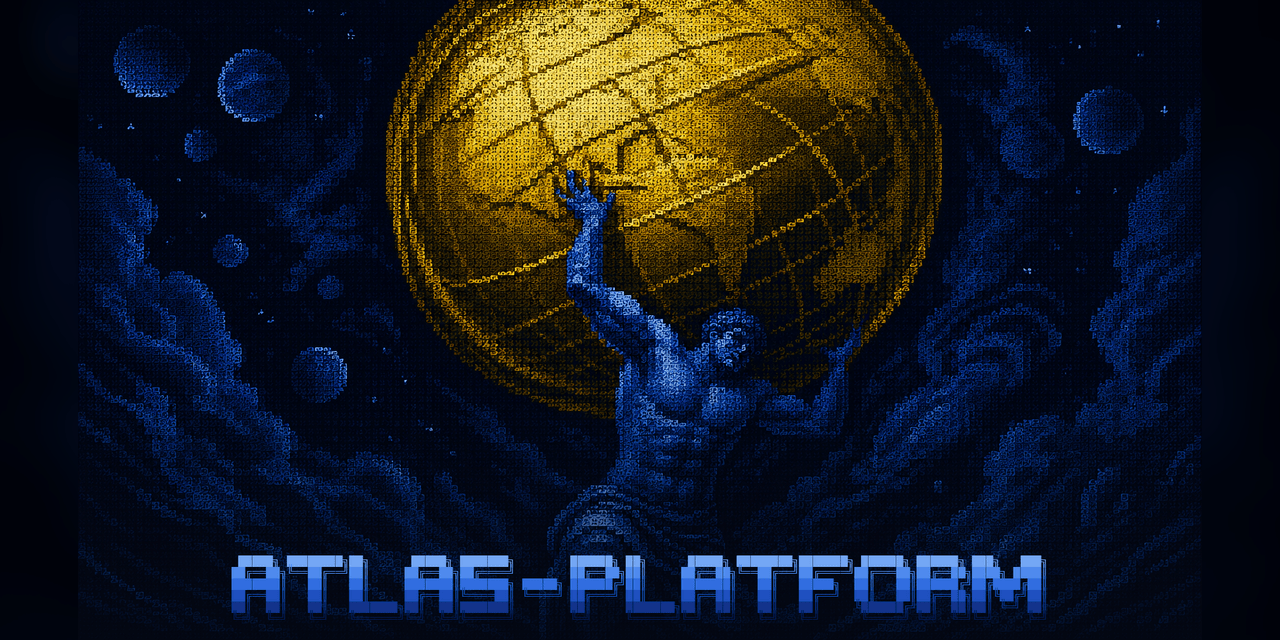
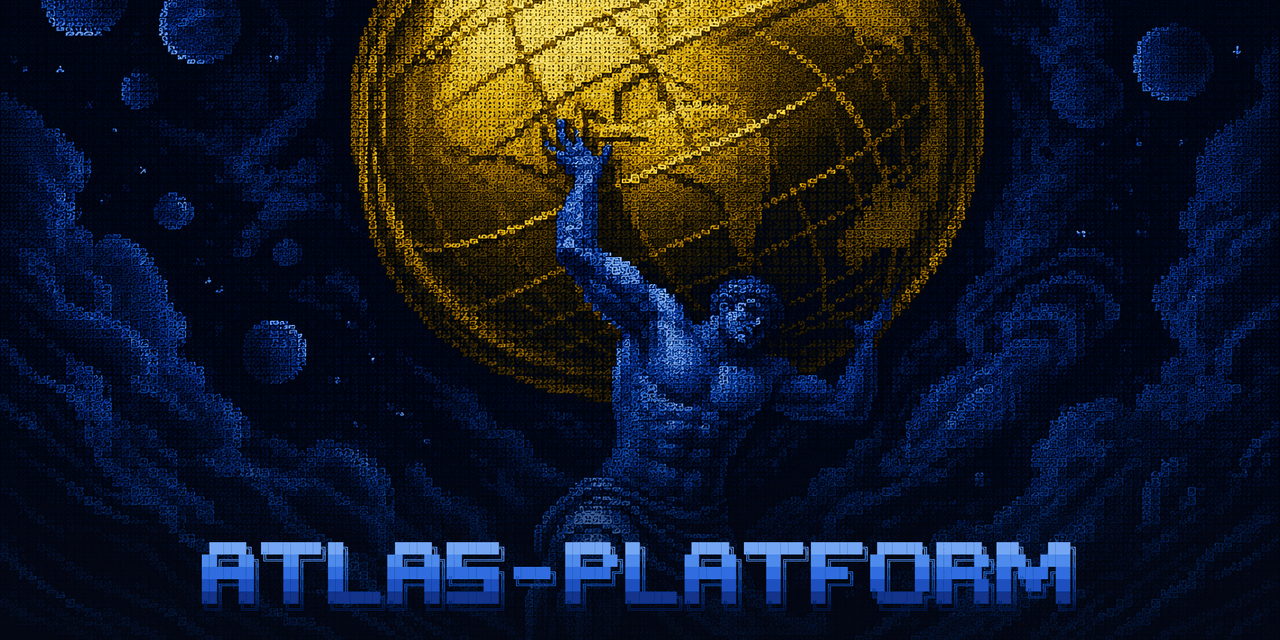
fix(assets): social card is a native 2:1 crop, not letterbox+blur fill
The poster aspect (1.757) is narrower than the 1280x640 (2:1) social card,
so the old _compose_social fit the whole poster and padded the ~78px side
margins with a blurred copy of the art -- the sides read as flat background
rather than real scene. Re-render the card by cropping the source scene to
the card's own 2:1 aspect (trim weighted to the empty top sky so the globe,
figure, and wordmark stay intact), then scrim + place the wordmark fresh.
Full-bleed, no letterbox. Extract the shared scrim+wordmark step as _finish;
drop the now-unused ImageFilter/ImageOps imports.

diff --git a/bootstrapper/scripts/generate_logo.py b/bootstrapper/scripts/generate_logo.py
@@ -16,7 +16,7 @@ import subprocess
 import sys
 from pathlib import Path
 
-from PIL import Image, ImageDraw, ImageEnhance, ImageFilter, ImageFont, ImageOps
+from PIL import Image, ImageDraw, ImageEnhance, ImageFont
 
 REPO = Path(__file__).resolve().parents[2]
 SRC = REPO / "assets" / "atlas-source.png"
@@ -154,17 +154,22 @@ def _scrim(base: Image.Image, frac: float = 0.42, strength: int = 190) -> Image.
     return Image.alpha_composite(base.convert("RGBA"), ov).convert("RGB")
 
 
+def _finish(base: Image.Image, wm_frac: float, bottom_frac: float) -> Image.Image:
+    """Scrim the lower third and overlay the centered ATLAS-PLATFORM wordmark."""
+    base = _scrim(base)
+    w, h = base.size
+    wm = _wordmark(int(w * wm_frac))
+    base.paste(wm, ((w - wm.width) // 2, h - wm.height - int(h * bottom_frac)), wm)
+    return base
+
+
 def _compose_poster(square: bool, wm_frac: float, bottom_frac: float = 0.07) -> Image.Image:
     base = Image.open(SRC).convert("RGB")
     if square:
         w, h = base.size
         s = min(w, h)
         base = base.crop(((w - s) // 2, 0, (w - s) // 2 + s, s))
-    base = _scrim(base)
-    w, h = base.size
-    wm = _wordmark(int(w * wm_frac))
-    base.paste(wm, ((w - wm.width) // 2, h - wm.height - int(h * bottom_frac)), wm)
-    return base
+    return _finish(base, wm_frac, bottom_frac)
 
 
 def main() -> None:
@@ -222,14 +227,18 @@ def main() -> None:
 
 
 def _compose_social(w: int = 1280, h: int = 640) -> Image.Image:
-    poster = Image.open(POSTER).convert("RGB")
-    bg = ImageOps.fit(Image.open(SRC).convert("RGB"), (w, h), method=Image.LANCZOS)
-    bg = bg.filter(ImageFilter.GaussianBlur(24))
-    bg = ImageEnhance.Brightness(bg).enhance(0.45)
-    fg = poster.copy()
-    fg.thumbnail((w, h), Image.LANCZOS)  # fit, preserve aspect, no crop
-    bg.paste(fg, ((w - fg.width) // 2, (h - fg.height) // 2))
-    return bg
+    """Native 2:1 social card: crop the source scene to the card's aspect
+    (full-bleed, no letterbox/blur fill), weighting the vertical trim toward
+    the top (empty sky/space) so the globe, figure, and wordmark stay intact,
+    then scrim + place the wordmark fresh and resize to exactly w x h."""
+    base = Image.open(SRC).convert("RGB")
+    W, H = base.size
+    new_h = int(W * h / w)           # height for the card's aspect (2:1)
+    cut = max(0, H - new_h)
+    top = int(cut * 0.85)            # take most of the trim from the top sky
+    base = base.crop((0, top, W, top + new_h))
+    base = _finish(base, wm_frac=0.68, bottom_frac=0.035)
+    return base.resize((w, h), Image.LANCZOS)
 
 
 def _optimize_png(path: Path, quality: str = "80-95") -> None: